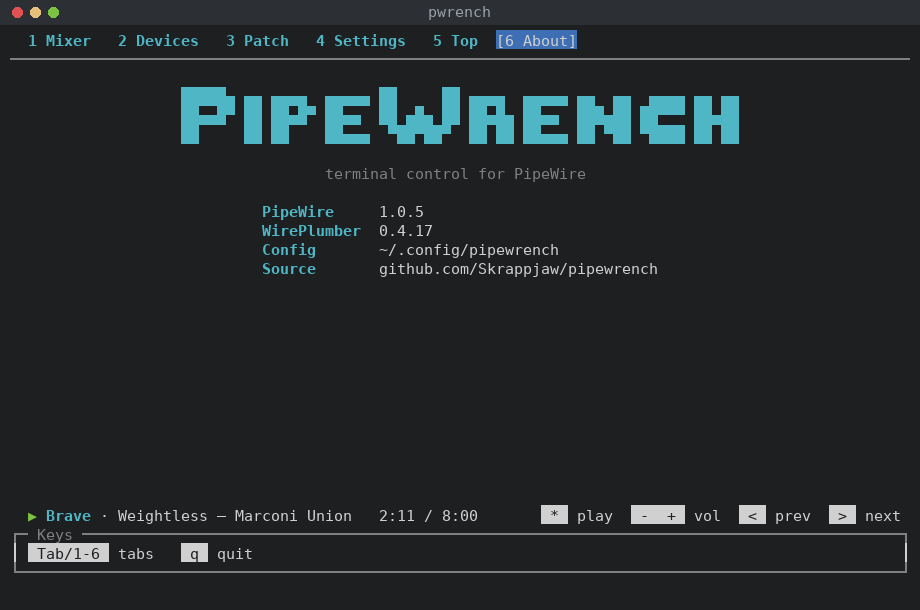
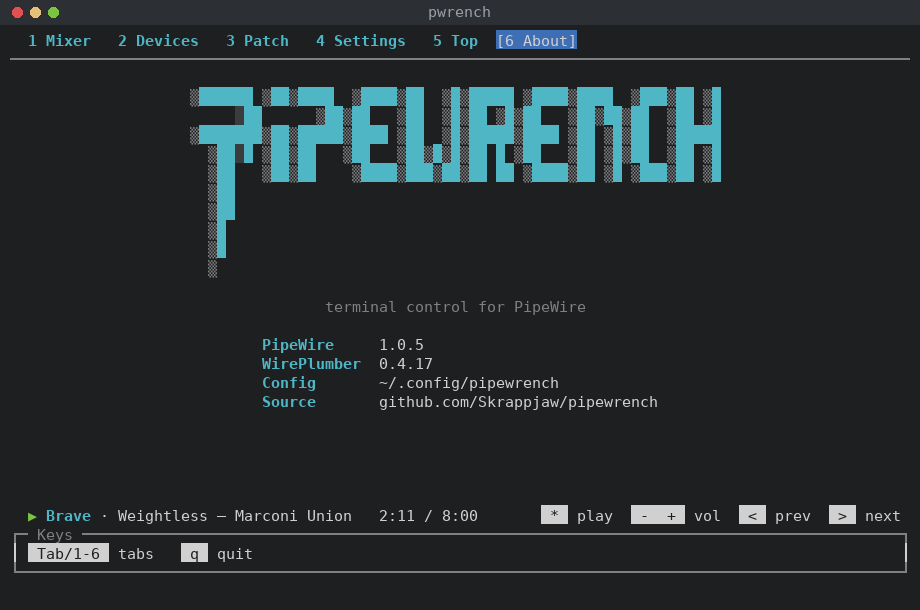
About: Skrappjaw's wrench wordmark on the dark and light themes, its shading dim

diff --git a/tests/test_about.py b/tests/test_about.py
@@ -23,9 +23,9 @@ def test_about_is_the_last_tab():
     assert st.tab == "about"
 
 
-def test_wide_terminal_gets_ansi_compact():
+def test_wide_terminal_gets_the_wrench():
     lines, _ = screen(width=100)
-    assert pc.LOGO_ANSI[0] in body(lines)
+    assert all(row.rstrip() in body(lines) for row in pc.LOGO_WRENCH) and pc.LOGO_ANSI[0] not in body(lines)
     assert pc.LOGO_PAGGA[0] not in body(lines)
 
 
@@ -49,9 +49,19 @@ def test_logo_rows_are_one_width():
 
 def test_logo_is_centred_in_the_accent():
     lines, _ = screen(width=100)
-    row = next((t, s) for t, s in lines if pc.LOGO_ANSI[0] in t)
-    assert row[0].index(pc.LOGO_ANSI[0]) == (100 - 62) // 2
-    assert row[1] == "title"
+    text, (base, spans) = next((t, s) for t, s in lines if pc.LOGO_WRENCH[0] in t)
+    assert text.index(pc.LOGO_WRENCH[0]) == (100 - 59) // 2 and base == "title"
+
+
+def test_wrench_shading_is_dim_and_letters_accent():
+    lines, _ = screen(width=100)
+    text, (_, spans) = next((t, s) for t, s in lines if pc.LOGO_WRENCH[1] in t)
+    dim = {a for a, b, role in spans if role == "dim"}
+    assert {text.index("░"), text.index("▒")} <= dim and text.index("█") not in dim
+
+
+def test_wrench_rows_are_one_width_and_fit_80_columns():
+    assert len({len(row) for row in pc.LOGO_WRENCH}) == 1 and len(pc.LOGO_WRENCH[0]) + 4 <= 80
 
 
 def test_pagga_plate_is_dim_and_letters_accent():
@@ -117,14 +127,14 @@ def themed(theme, width=100):
     return body(pc.render_screen(UIState(tab="about", theme=theme), {}, [], width, 30, about=ABOUT)[0])
 
 
-@pytest.mark.parametrize("theme,logo", [("dark", "LOGO_ANSI"), ("light", "LOGO_ANSI"), ("crowbar", "LOGO_DOOM"),
+@pytest.mark.parametrize("theme,logo", [("dark", "LOGO_WRENCH"), ("light", "LOGO_WRENCH"), ("pipeos-dark", "LOGO_ANSI"), ("crowbar", "LOGO_DOOM"),
                                         ("pipeboy", "LOGO_COMPUTER"), ("pipeboy-amber", "LOGO_COMPUTER"),
                                         ("pipeboy-cyan", "LOGO_COMPUTER"), ("pipeboy-white", "LOGO_COMPUTER"),
                                         ("vaporware", "LOGO_SLANT")])
 def test_each_theme_has_its_wordmark(theme, logo):
     text = themed(theme)
     assert all(row.rstrip() in text for row in getattr(pc, logo))
-    others = {"LOGO_ANSI", "LOGO_DOOM", "LOGO_COMPUTER", "LOGO_SLANT"} - {logo}
+    others = {"LOGO_WRENCH", "LOGO_ANSI", "LOGO_DOOM", "LOGO_COMPUTER", "LOGO_SLANT"} - {logo}
     assert not any(getattr(pc, o)[1].rstrip() in text for o in others)
 
 
@@ -132,7 +142,7 @@ def test_every_theme_has_a_logo_entry():
     assert all(pc.theme_logo(t) for t in pc.THEME_NAMES)
 
 
-@pytest.mark.parametrize("theme", ["crowbar", "pipeboy", "vaporware"])
+@pytest.mark.parametrize("theme", ["dark", "light", "crowbar", "pipeboy", "vaporware"])
 def test_themed_logos_fall_back_when_narrow(theme):
     assert pc.LOGO_PAGGA[0] in themed(theme, width=50)
     assert "P I P E W R E N C H" in themed(theme, width=40)

diff --git a/pwcore.py b/pwcore.py
@@ -1206,6 +1206,20 @@ LOGO_PAGGA = [
     "░▀░░░▀▀▀░▀░░░▀▀▀░▀░▀░▀░▀░▀▀▀░▀░▀░▀▀▀░▀░▀",
 ]
 LOGO_PLAIN = ["P I P E W R E N C H"]
+# Skrappjaw's own wordmark for dark and light (2026-10-25): the P's stem runs down as the wrench handle.
+# ▒ and ░ are the shading, drawn dim; █ is the lettering.
+LOGO_WRENCH = [
+    '▒██████ ▒██▒████  ▒████▒██  ▒█▒█████ ▒████▒████  ▒███▒██ ▒█',
+    '     ░██      ▒██▒██   ▒██  ▒█▒██ ▒█▒██   ▒██▒██▒██  ▒██ ▒█',
+    '▒███████▒██▒█████▒████ ▒██  ▒█▒█████▒████ ▒██ ▒█▒██  ▒█████',
+    '  ▒██░█ ▒██▒██   ▒██   ▒██▒█▒█▒██ █ ▒██   ▒██ ▒█▒██  ▒██ ▒█',
+    '  ▒██   ▒██▒██    ▒████▒███▒██▒██ ██ ▒████▒██ ▒█ ▒███▒██ ▒█',
+    '  ▒██                                                      ',
+    '  ▒██                                                      ',
+    '  ▒█                                                       ',
+    '  ▒█                                                       ',
+    '  ▒                                                        ',
+]
 # A wordmark per theme (Skrappjaw, 2026-10-24), from figlet fonts: Doom for crowbar, Computer for every Pipe Boy,
 # Slant for Vaporware. Rows are padded to one width so the logo centres as a block.
 LOGO_DOOM = [
@@ -1251,10 +1265,11 @@ LOGO_PIPECRAFT_SMALL = [
 
 
 def theme_logo(theme):
-    """The wordmark for a theme when it fits; dark and light keep ANSI Compact."""
+    """The wordmark for a theme when it fits; dark and light have Skrappjaw's wrench, the rest ANSI Compact."""
     if theme.startswith("pipeboy"):
         return LOGO_COMPUTER
-    return {"crowbar": LOGO_DOOM, "vaporware": LOGO_SLANT, "pipecraft": LOGO_PIPECRAFT}.get(theme, LOGO_ANSI)
+    return {"dark": LOGO_WRENCH, "light": LOGO_WRENCH, "crowbar": LOGO_DOOM, "vaporware": LOGO_SLANT,
+            "pipecraft": LOGO_PIPECRAFT}.get(theme, LOGO_ANSI)
 
 
 def logo_chain(theme):
@@ -1289,7 +1304,7 @@ def _render_about(cv, about, theme="dark"):
     pad = max(0, (cv.width - len(logo[0])) // 2)
     cv.add("")
     for row in logo:
-        plate = [(pad + n, pad + n + 1, "dim") for n, ch in enumerate(row) if ch == "░"]
+        plate = [(pad + n, pad + n + 1, "dim") for n, ch in enumerate(row) if ch in "░▒"]
         cv.add(" " * pad + row, ("title", plate) if plate else "title")
     cv.add("")
     tagline = "terminal control for PipeWire"

diff --git a/docs/guide.md b/docs/guide.md
@@ -314,7 +314,8 @@ it to see what's running and whether anything is dropping out. ↑↓ and PgUp/P
 ## About
 
 The versions of PipeWire and WirePlumber, and where PipeWrench keeps its settings. The logo changes with
-the theme: Crowbar, the Pipe Boys and Vaporware each have their own lettering.
+the theme: dark and light show the PipeWrench wrench, and Crowbar, the Pipe Boys and Vaporware each
+have their own lettering.
 
 ![About](guide/about.png)
 
